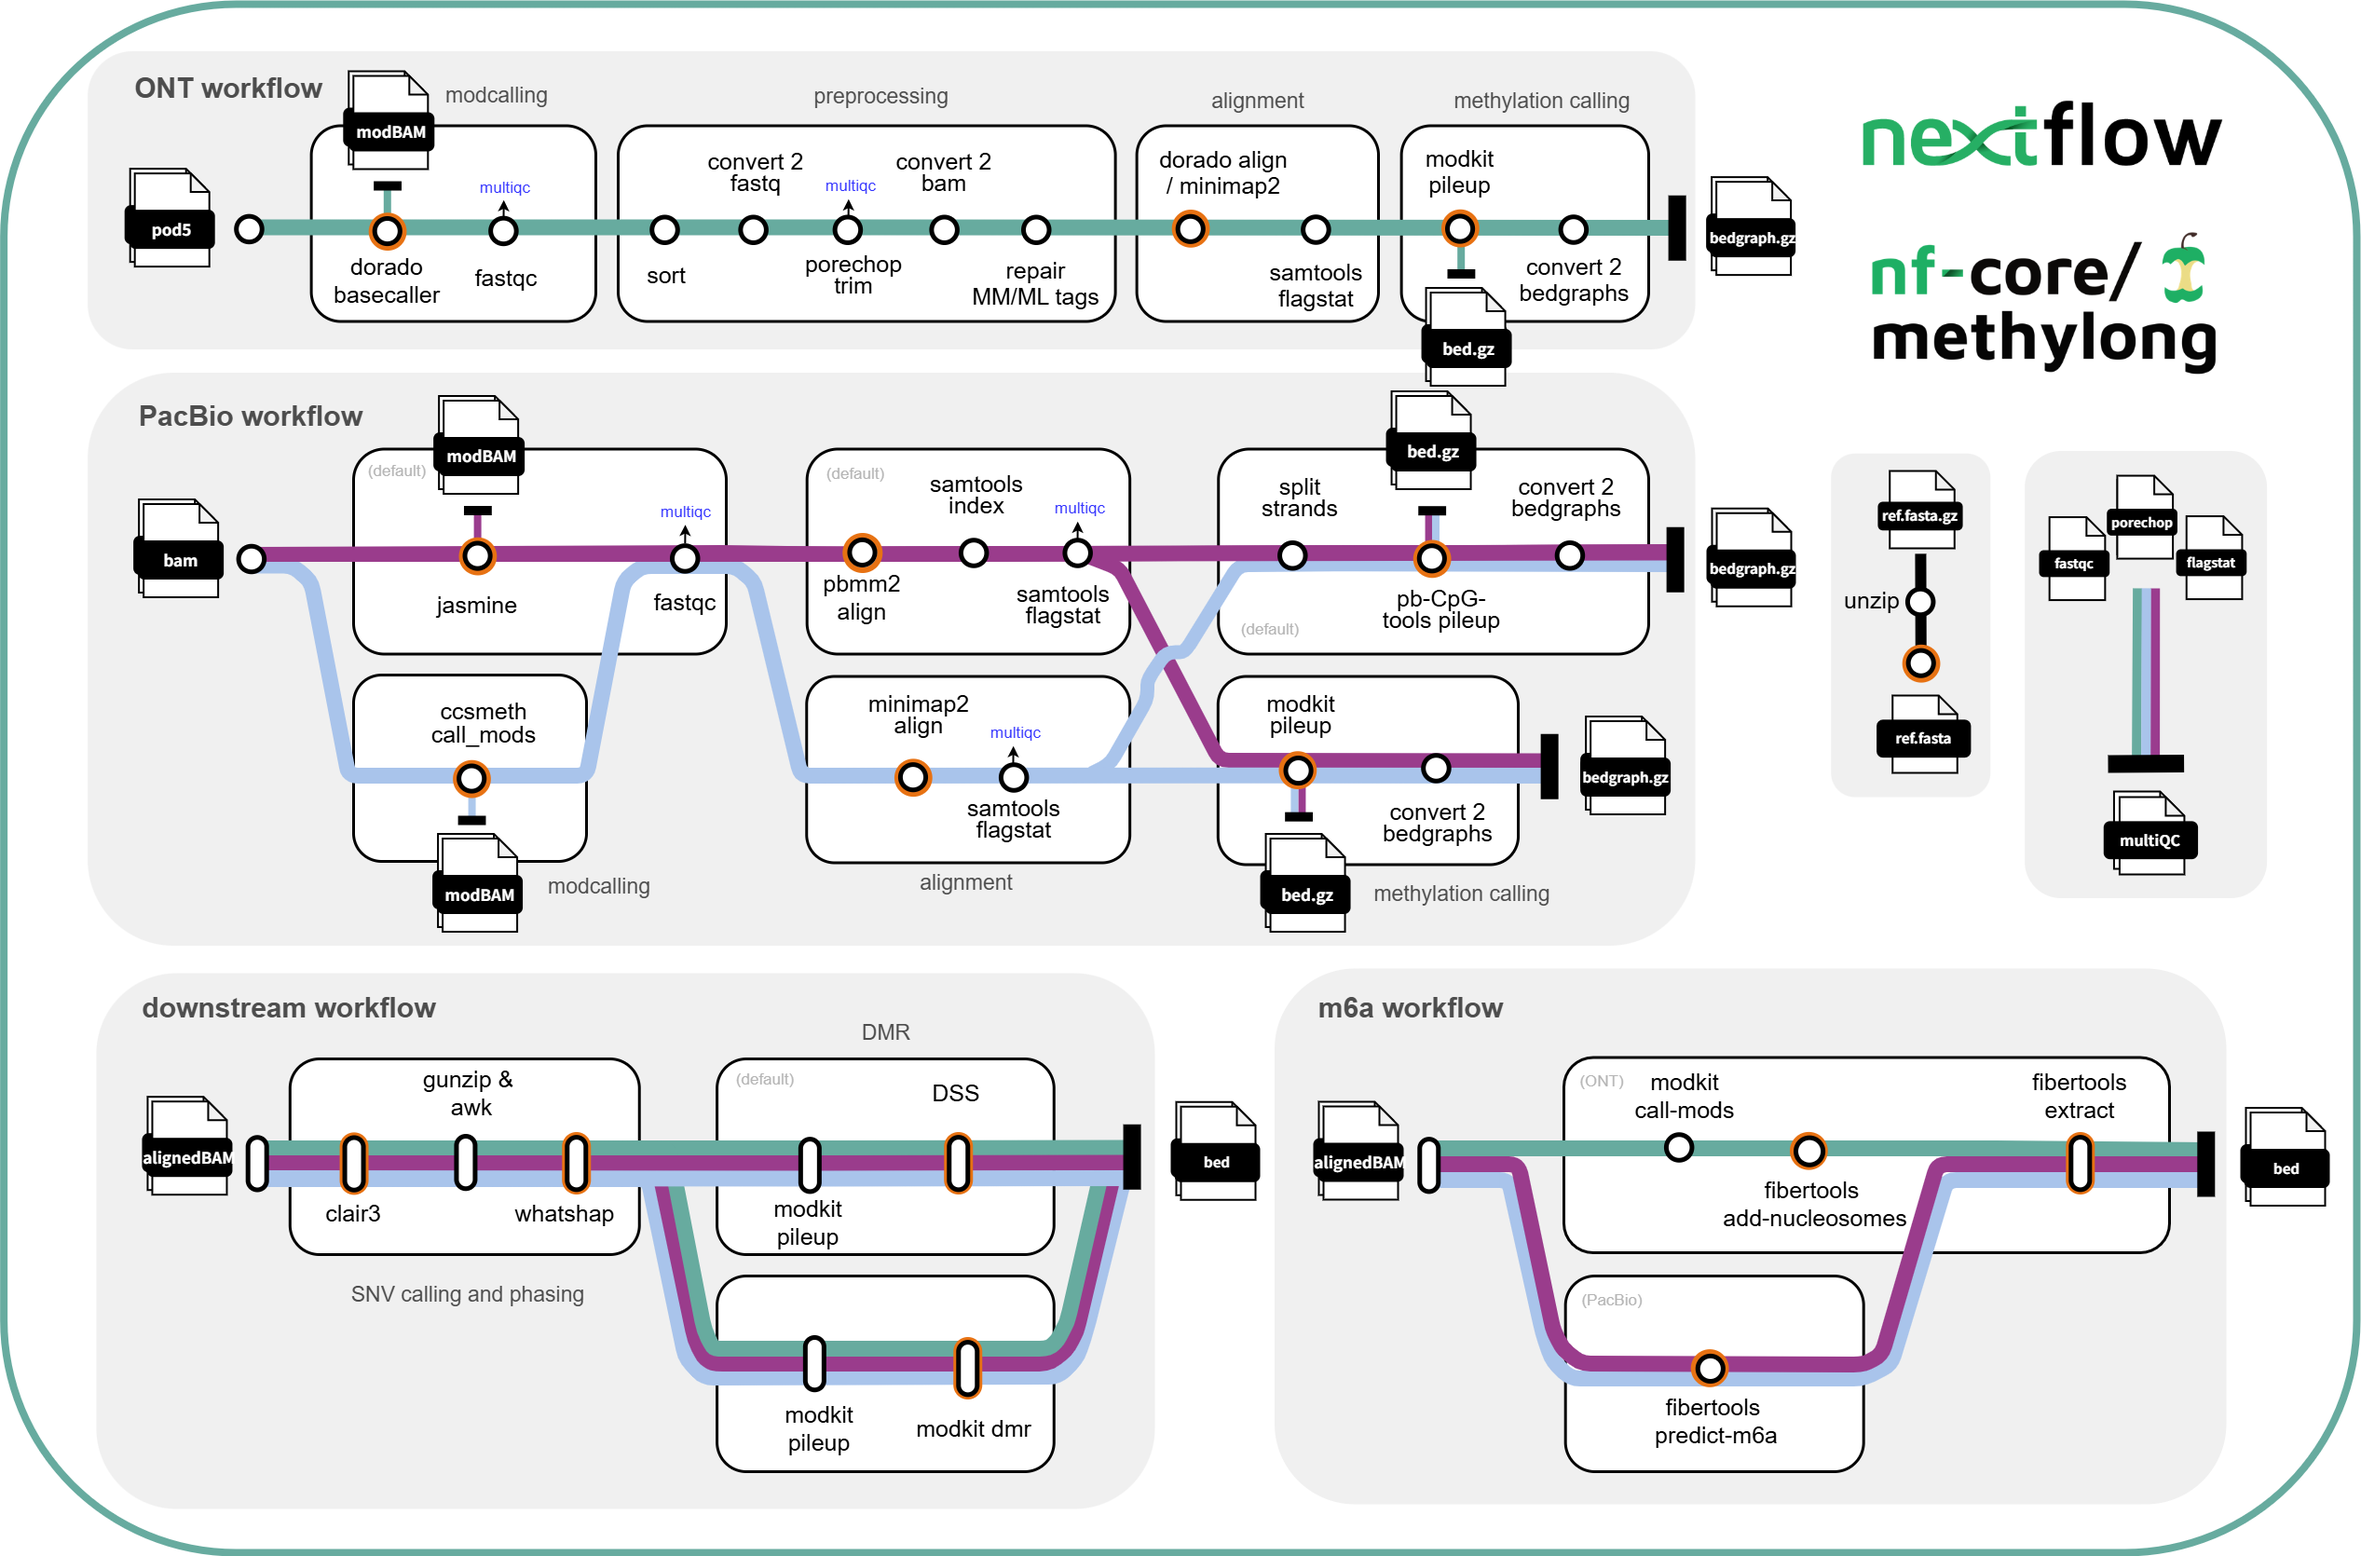
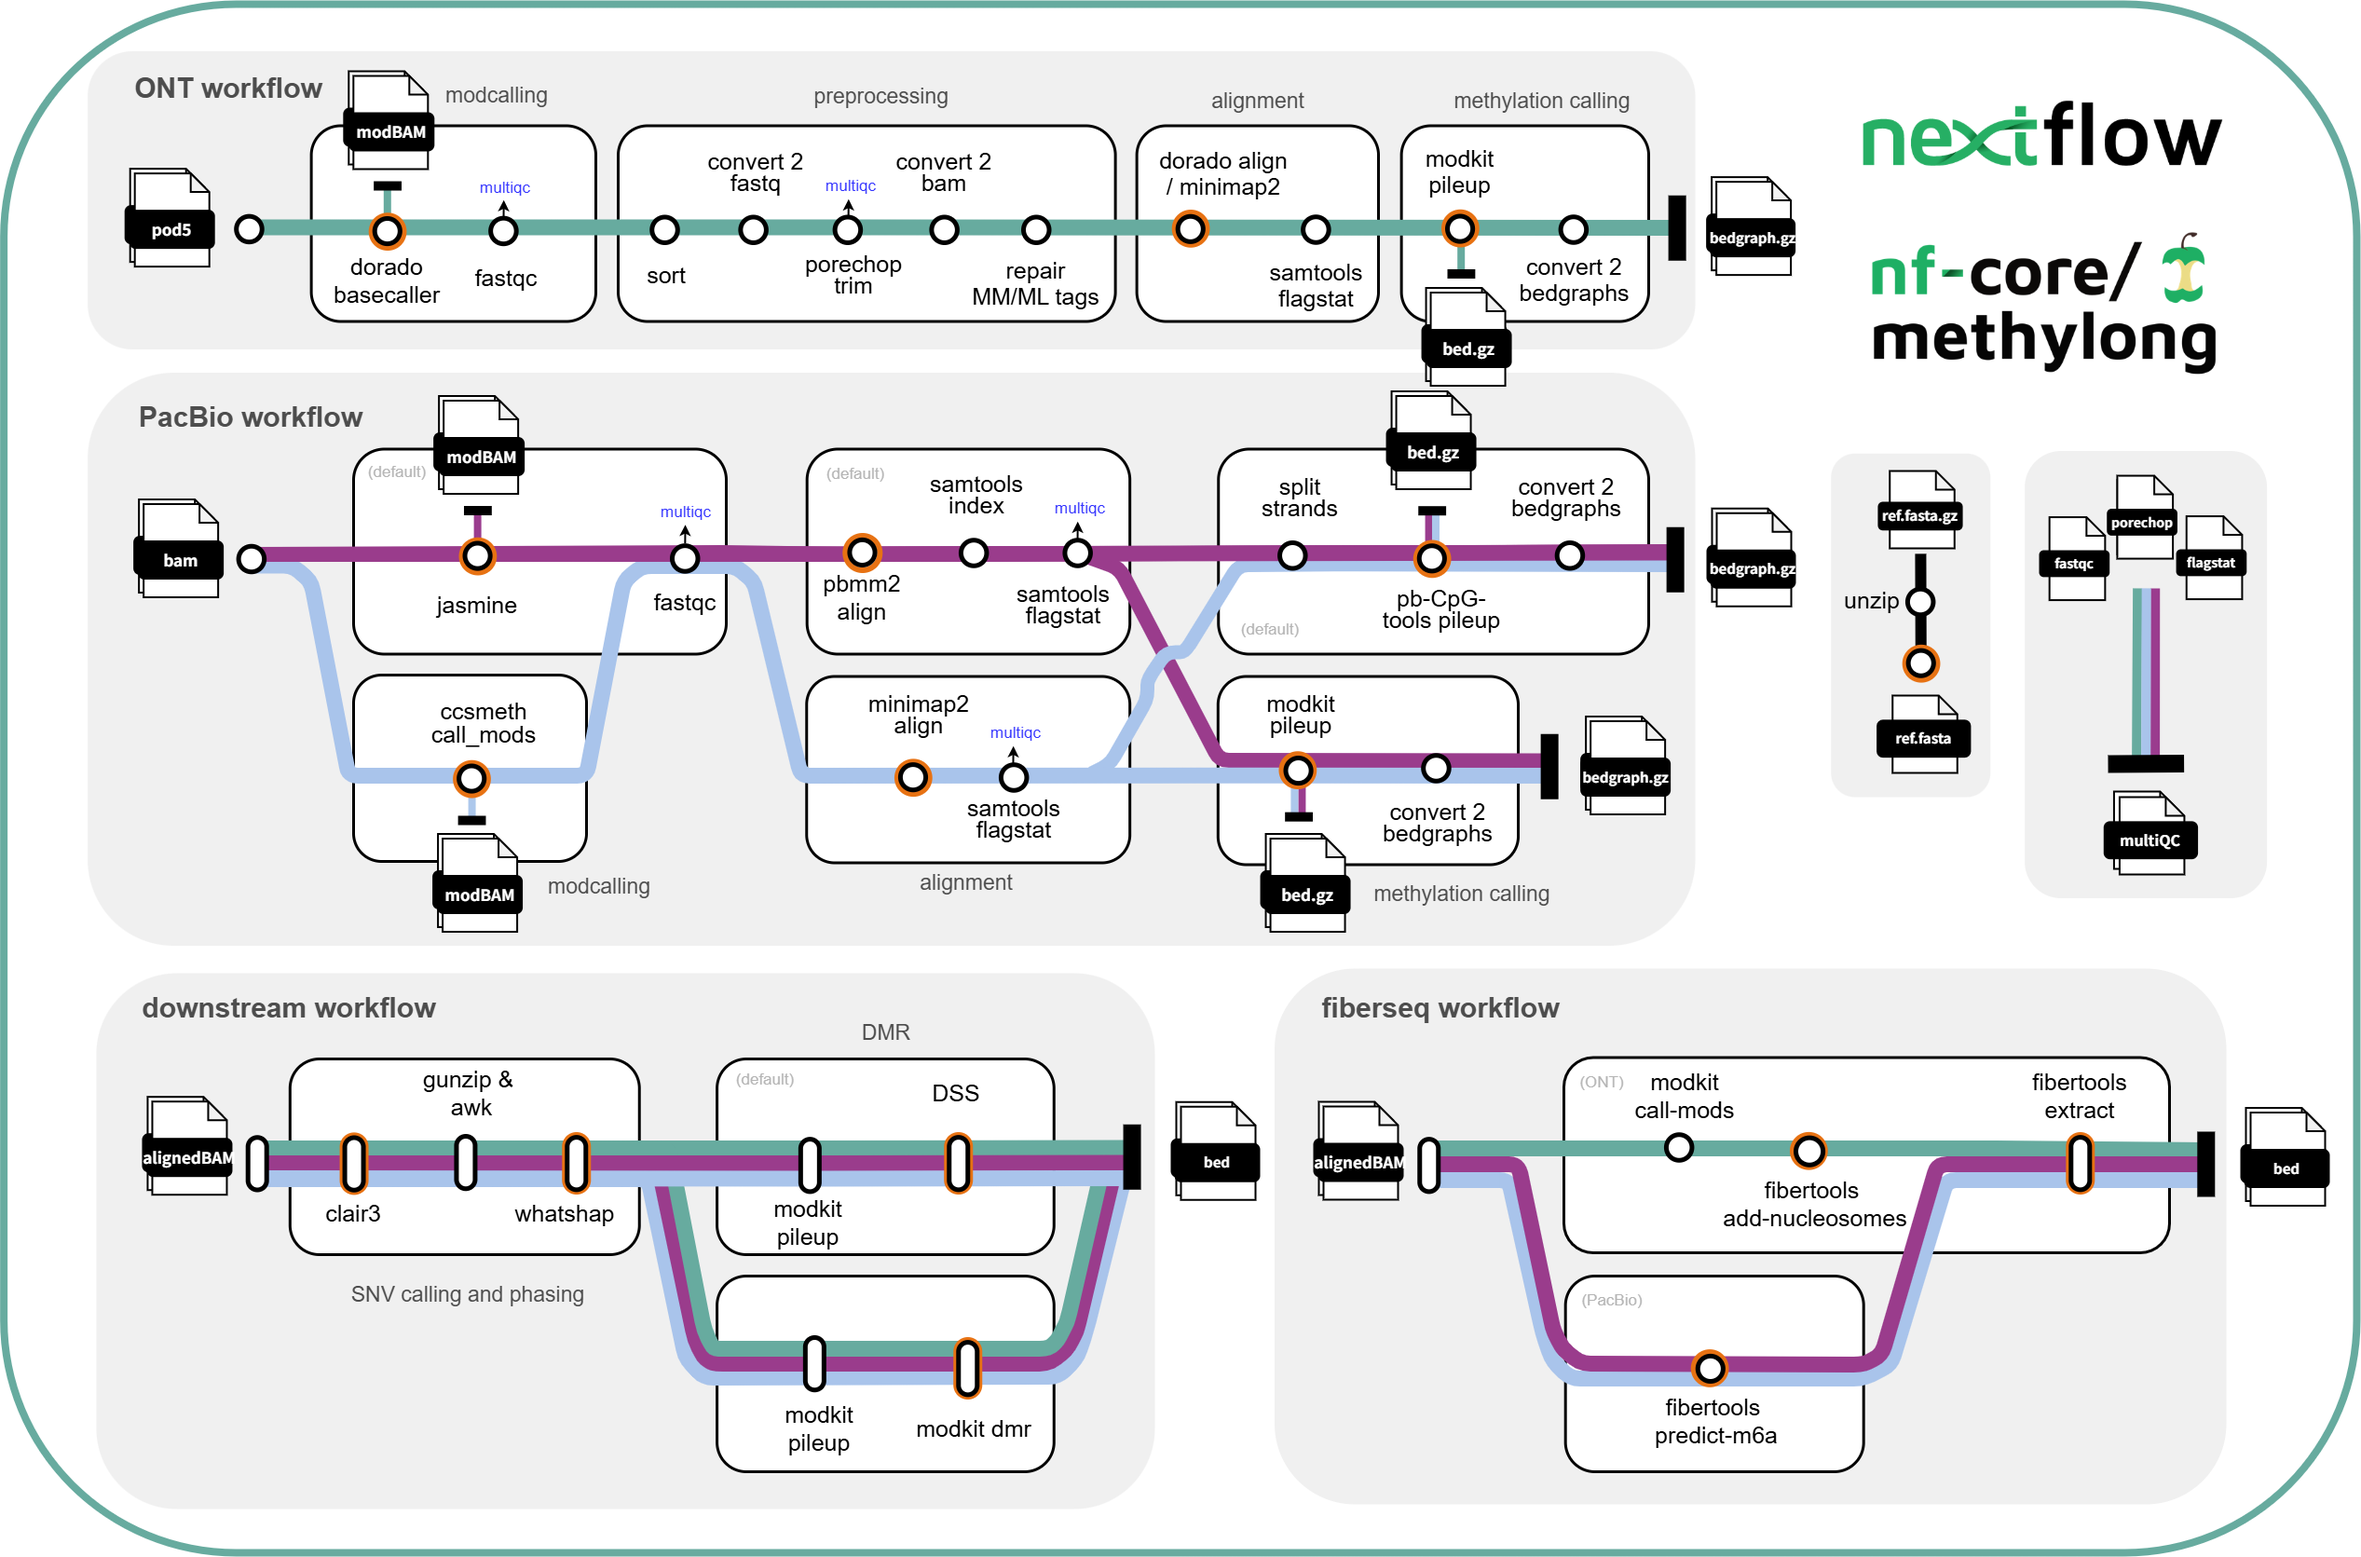
update fiberseq

diff --git a/docs/usage.md b/docs/usage.md
@@ -29,13 +29,13 @@ group3,sample3,sample3.bam,sample3.fasta,ont
 group3,sample4,sample4.bam,sample4.fasta,ont
 ```
 
-| Column   | Description                                                                                                                                                     |
-| -------- | --------------------------------------------------------------------------------------------------------------------------------------------------------------- |
-| `group`  | Custom sample group name.                                                                                                                                       |
-| `sample` | Custom sample name.                                                                                                                                             |
-| `modbam` | Full path to modification basecalled bam file. This bam file has to be unaligned bam file. File has to have the extension ".bam".                               |
+| Column   | Description                                                  |
+| -------- | ------------------------------------------------------------ |
+| `group`  | Custom sample group name.                                    |
+| `sample` | Custom sample name.                                          |
+| `modbam` | Full path to modification basecalled bam file. This bam file has to be unaligned bam file. File has to have the extension ".bam". |
 | `ref`    | Full path to reference genome file . File can be either gzipped or not. File has to have the extension '.fa', '.fasta', '.fna' or their equivalent gzip format. |
-| `method` | Sequencing method has to be specified. Either 'ont' or 'pacbio' can be accepted.                                                                                |
+| `method` | Sequencing method has to be specified. Either 'ont' or 'pacbio' can be accepted. |
 
 An [example samplesheet](../assets/test_data/test_samplesheet.csv) has been provided with the pipeline.
 

diff --git a/docs/output.md b/docs/output.md
@@ -62,6 +62,7 @@ Preprocessing of reads are only available for ONT reads. Reads are trimmed, then
 - `trim/`
   - `*_fastq.gz`: reads after trimming.
   - `*.log`: trimming log
+  
 - `repair/`
   - `*_repaired_.bam`: reads after repairing MM/ML tags.
   - `*.log`: repair log
@@ -145,6 +146,7 @@ DMR analysis includes haplotype level and population scale, and can be preformed
 
 #### DSS output:
 
+
 - `dmr_haplotype_level/dss/`
   - `*_preprocessed_<1|2|etc>.bed`: partitioned reads based on HP tag
   - `*_DSS_DMLtest.txt`: DML test results
@@ -155,7 +157,6 @@ DMR analysis includes haplotype level and population scale, and can be preformed
 #### modkit dmr output:
 
 - `dmr_haplotype_level/modkit/`
-
   - `*_<1|2|etc>.bed`: partitioned reads based on HP tag
   - `*_modkit_dmr_haplotype_level.bed`: differential methylation output
 
